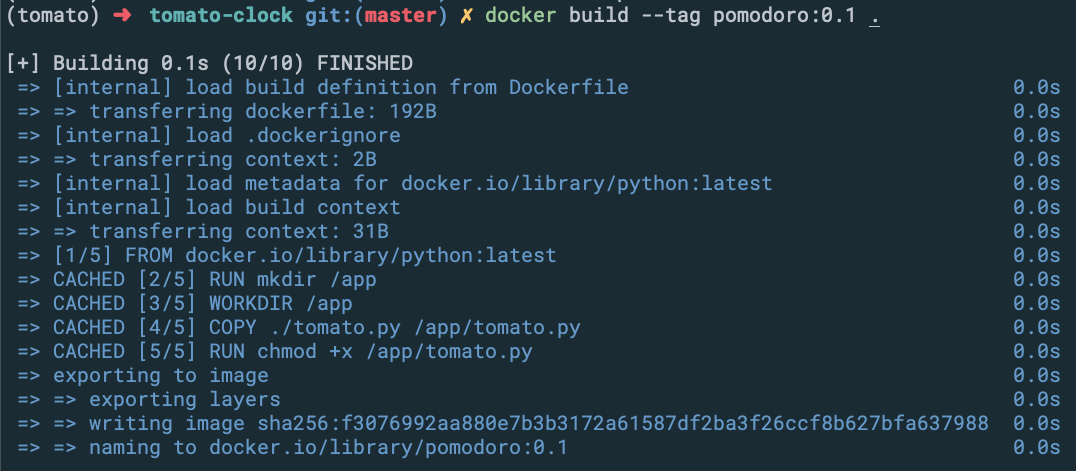
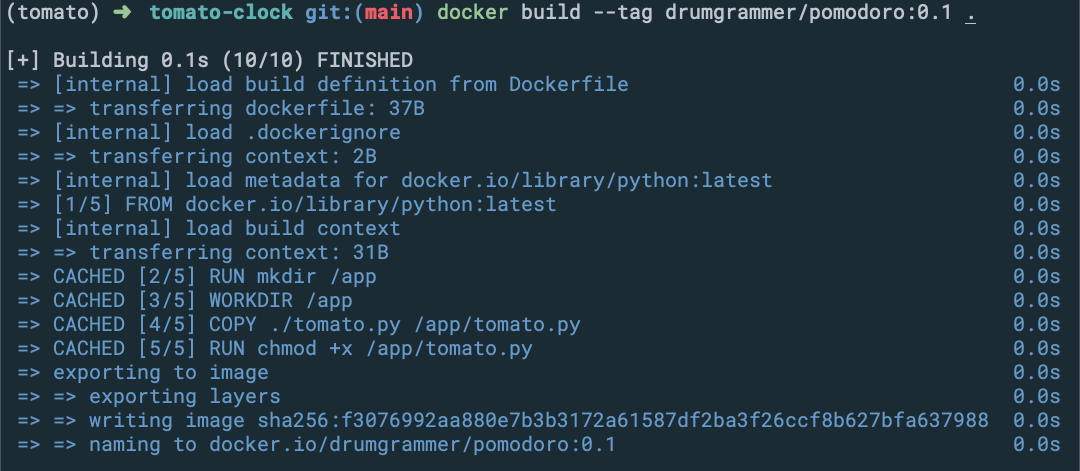
ADD. contest - readme

Changed region(s): [[0.0, 0.0892, 1.0, 0.9809], [0.0, 0.0, 0.8894, 0.0594]]

diff --git a/contest/dockerfile/jk/tomato-clock/README.md b/contest/dockerfile/jk/tomato-clock/README.md
@@ -1,4 +1,4 @@
-## 뽀모도로 기법이란
+# 뽀모도로 기법이란
 [뽀모도로 기법](https://ko.wikipedia.org/wiki/%ED%8F%AC%EB%AA%A8%EB%8F%84%EB%A1%9C_%EA%B8%B0%EB%B2%95)(Pomodoro Technique)은 시간 관리 방법론으로 1980년대 후반 '프란체스코 시릴로'(Francesco Cirillo)가 제안했다.
 
 타이머를 이용해서 25분간 집중해서 일을 한 다음 5분간 휴식하는 방식이다. 
@@ -12,14 +12,26 @@
 ## 코드 소스
 tomato.py 소스 코드는 [🍅 Tomato Clock](https://github.com/coolcode/tomato-clock)에서 참조했다.
 
-## Dockerfile로 이미지 빌드
+## 실행
+
+### 방법 1
+- Dockerfile로 이미지 빌드
 ```
-docker build --tag pomodoro:0.1 .
+docker build --tag {your-docker-hub-namespace}/pomodoro:0.1 .
 ```
 ![img](./img-build.png)
-
-## 컨테이너 실행
+- 컨테이너 실행
 ```
-docker run -it pomodoro:0.1
+docker run -it {your-docker-hub-namespace}/pomodoro:0.1
+```
+
+### 방법 2
+- docker hub에서 이미지 받아오기
+```
+docker pull drumgrammer/pomodoro:0.1
+```
+- 컨테이너 실행
+```
+docker run -it drumgrammer/pomodoro:0.1
 ```
 ![img](./img-execute.png)
